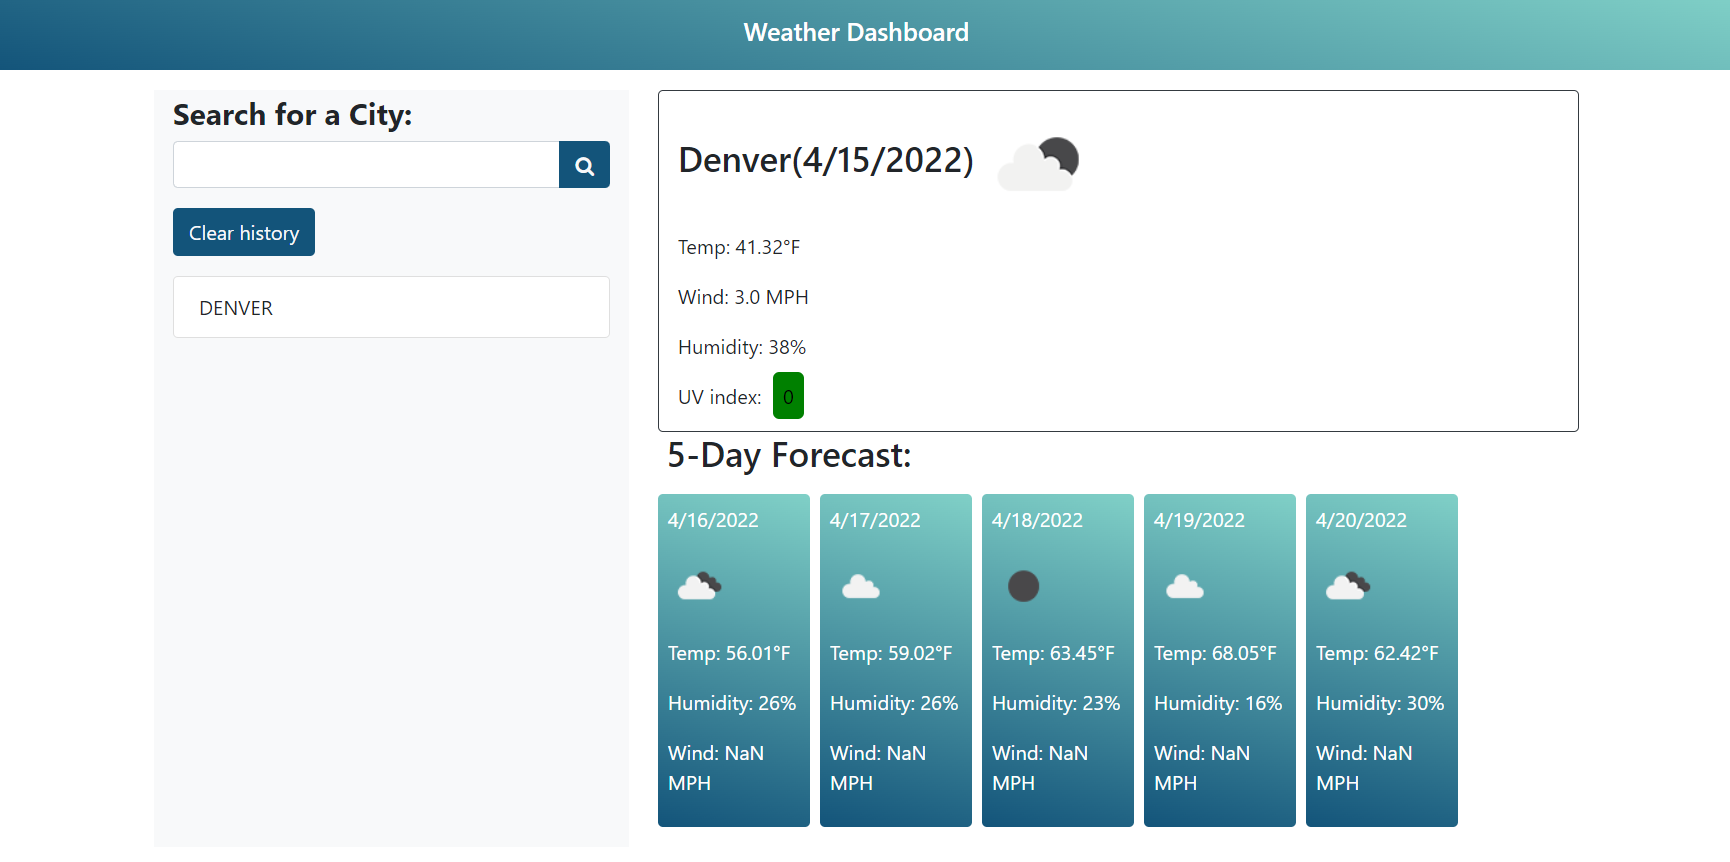
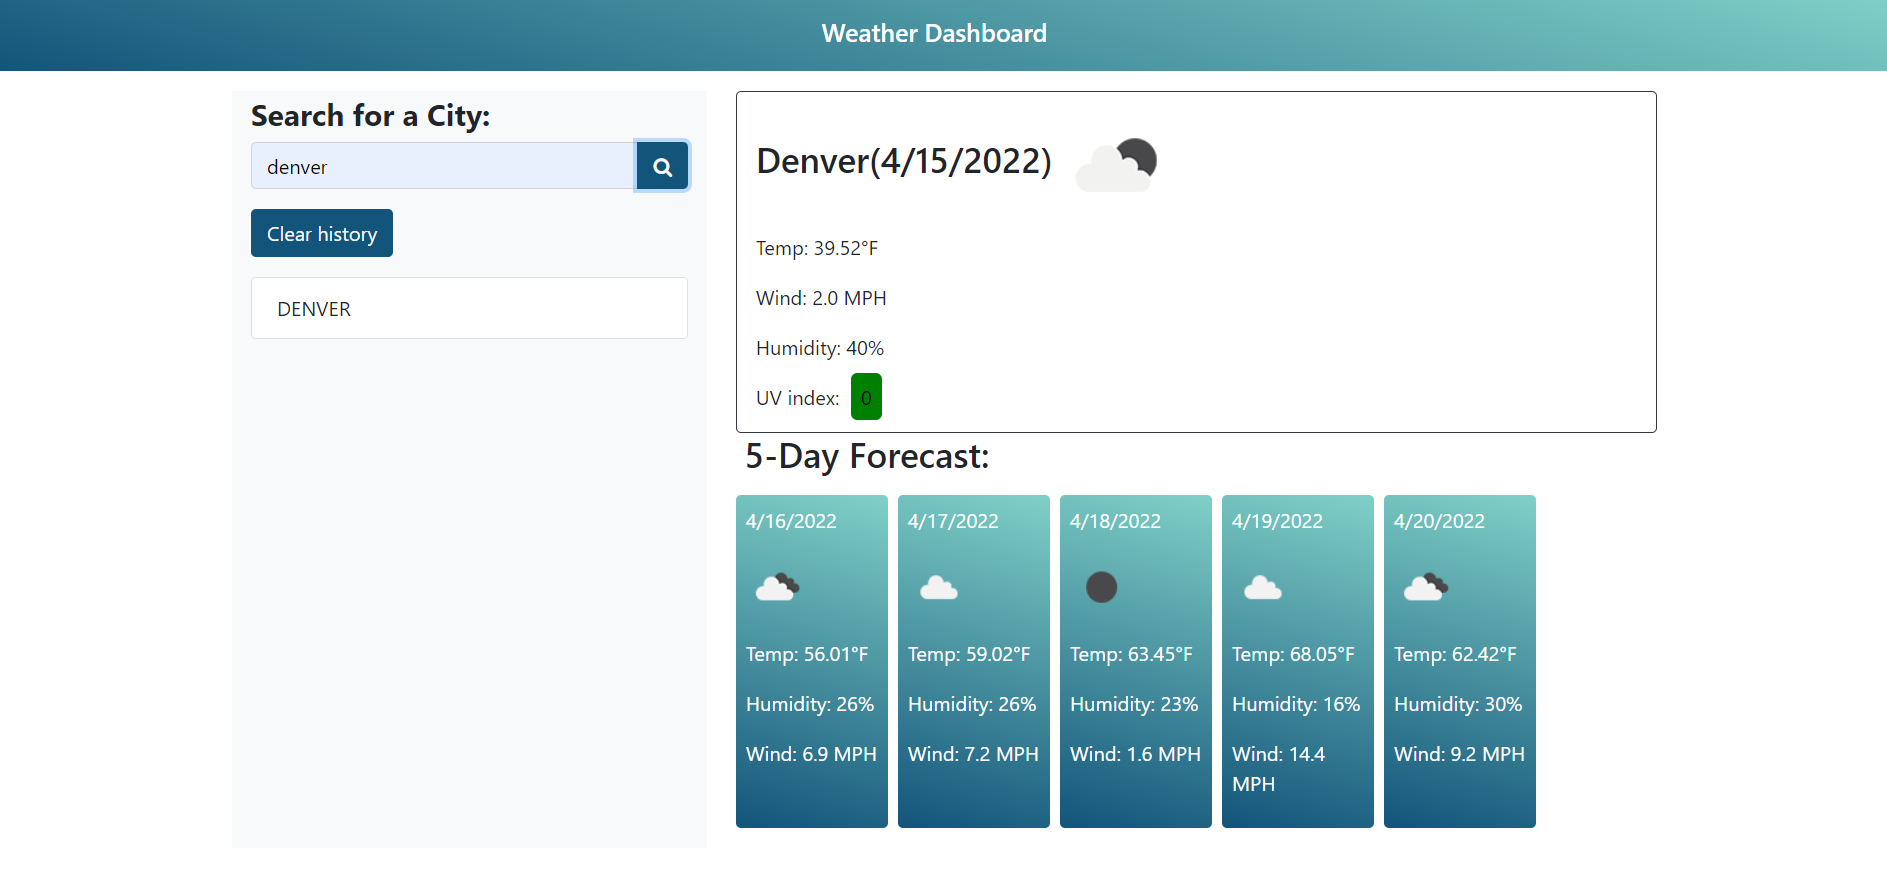
wind is working

diff --git a/script.js b/script.js
@@ -79,9 +79,9 @@ function uvIndex(lon,lat){ //FUNCTION TO RETURN UVINDEX
 $.ajax({
   url:uvqURL,
   method:"GET"
-}).then(function (response) {
-  var uvIndex = response.current.uvi; //VARIABLE TO GRAB CURRENT UVI
-  if (uvIndex < 2) { //IF ELSE TO INDICATE A COLOR BASED ON VALUE
+}).then(function (response) { //VARIABLE TO GRAB CURRENT UVI. IF ELSE TO INDICATE A COLOR BASED ON VALUE
+  var uvIndex = response.current.uvi; 
+  if (uvIndex < 2) {
     $("#uv-index").addClass("green")
   } else if (uvIndex < 5) {
     $("#uv-index").addClass("yellow")
@@ -104,13 +104,13 @@ $.ajax({
   method:"GET"
 }).then(function(response){
 for (i=0;i<5;i++){
-var date= new Date((response.list[((i+1)*8)-1].dt)*1000).toLocaleDateString();
+var date= new Date((response.list[((i+1)*8)-1].dt)*1000).toLocaleDateString(); 
 var iconcode= response.list[((i+1)*8)-1].weather[0].icon;
 var iconurl="https://openweathermap.org/img/wn/"+iconcode+".png";
 var tempK= response.list[((i+1)*8)-1].main.temp;
 var tempF=(((tempK-273.5)*1.80)+32).toFixed(2); //CHANGE TO FARENHEIGHT
 var humidity= response.list[((i+1)*8)-1].main.humidity;
-var wind= response.wind_speed; //WINDSPEED METERS PER SECOND PULLED FROM API
+var wind= response.list[((i+1)*8)-1].wind.speed; //WINDSPEED METERS PER SECOND PULLED FROM API
 var windS=(wind*2.237).toFixed(1); //CONVERT MILES PER HOUR
 $("#futureDate"+i).html(date);
 $("#futureIcon"+i).html("<img src="+iconurl+">");
@@ -136,7 +136,7 @@ function pastSearch(event){ //DISPLAY PAST SEARCH WHEN ITEM IS CLICKED IN SEARCH
 }
 }
 
-function loadlastCity(){ // RENDER FUNCTION
+function loadlastCity(){ // RENDER FUNCTION OF CITY SEARCH FROM STORAGE
   $("ul").empty();
   var storageCity = JSON.parse(localStorage.getItem("cityname"));
   if(storageCity!==null){
